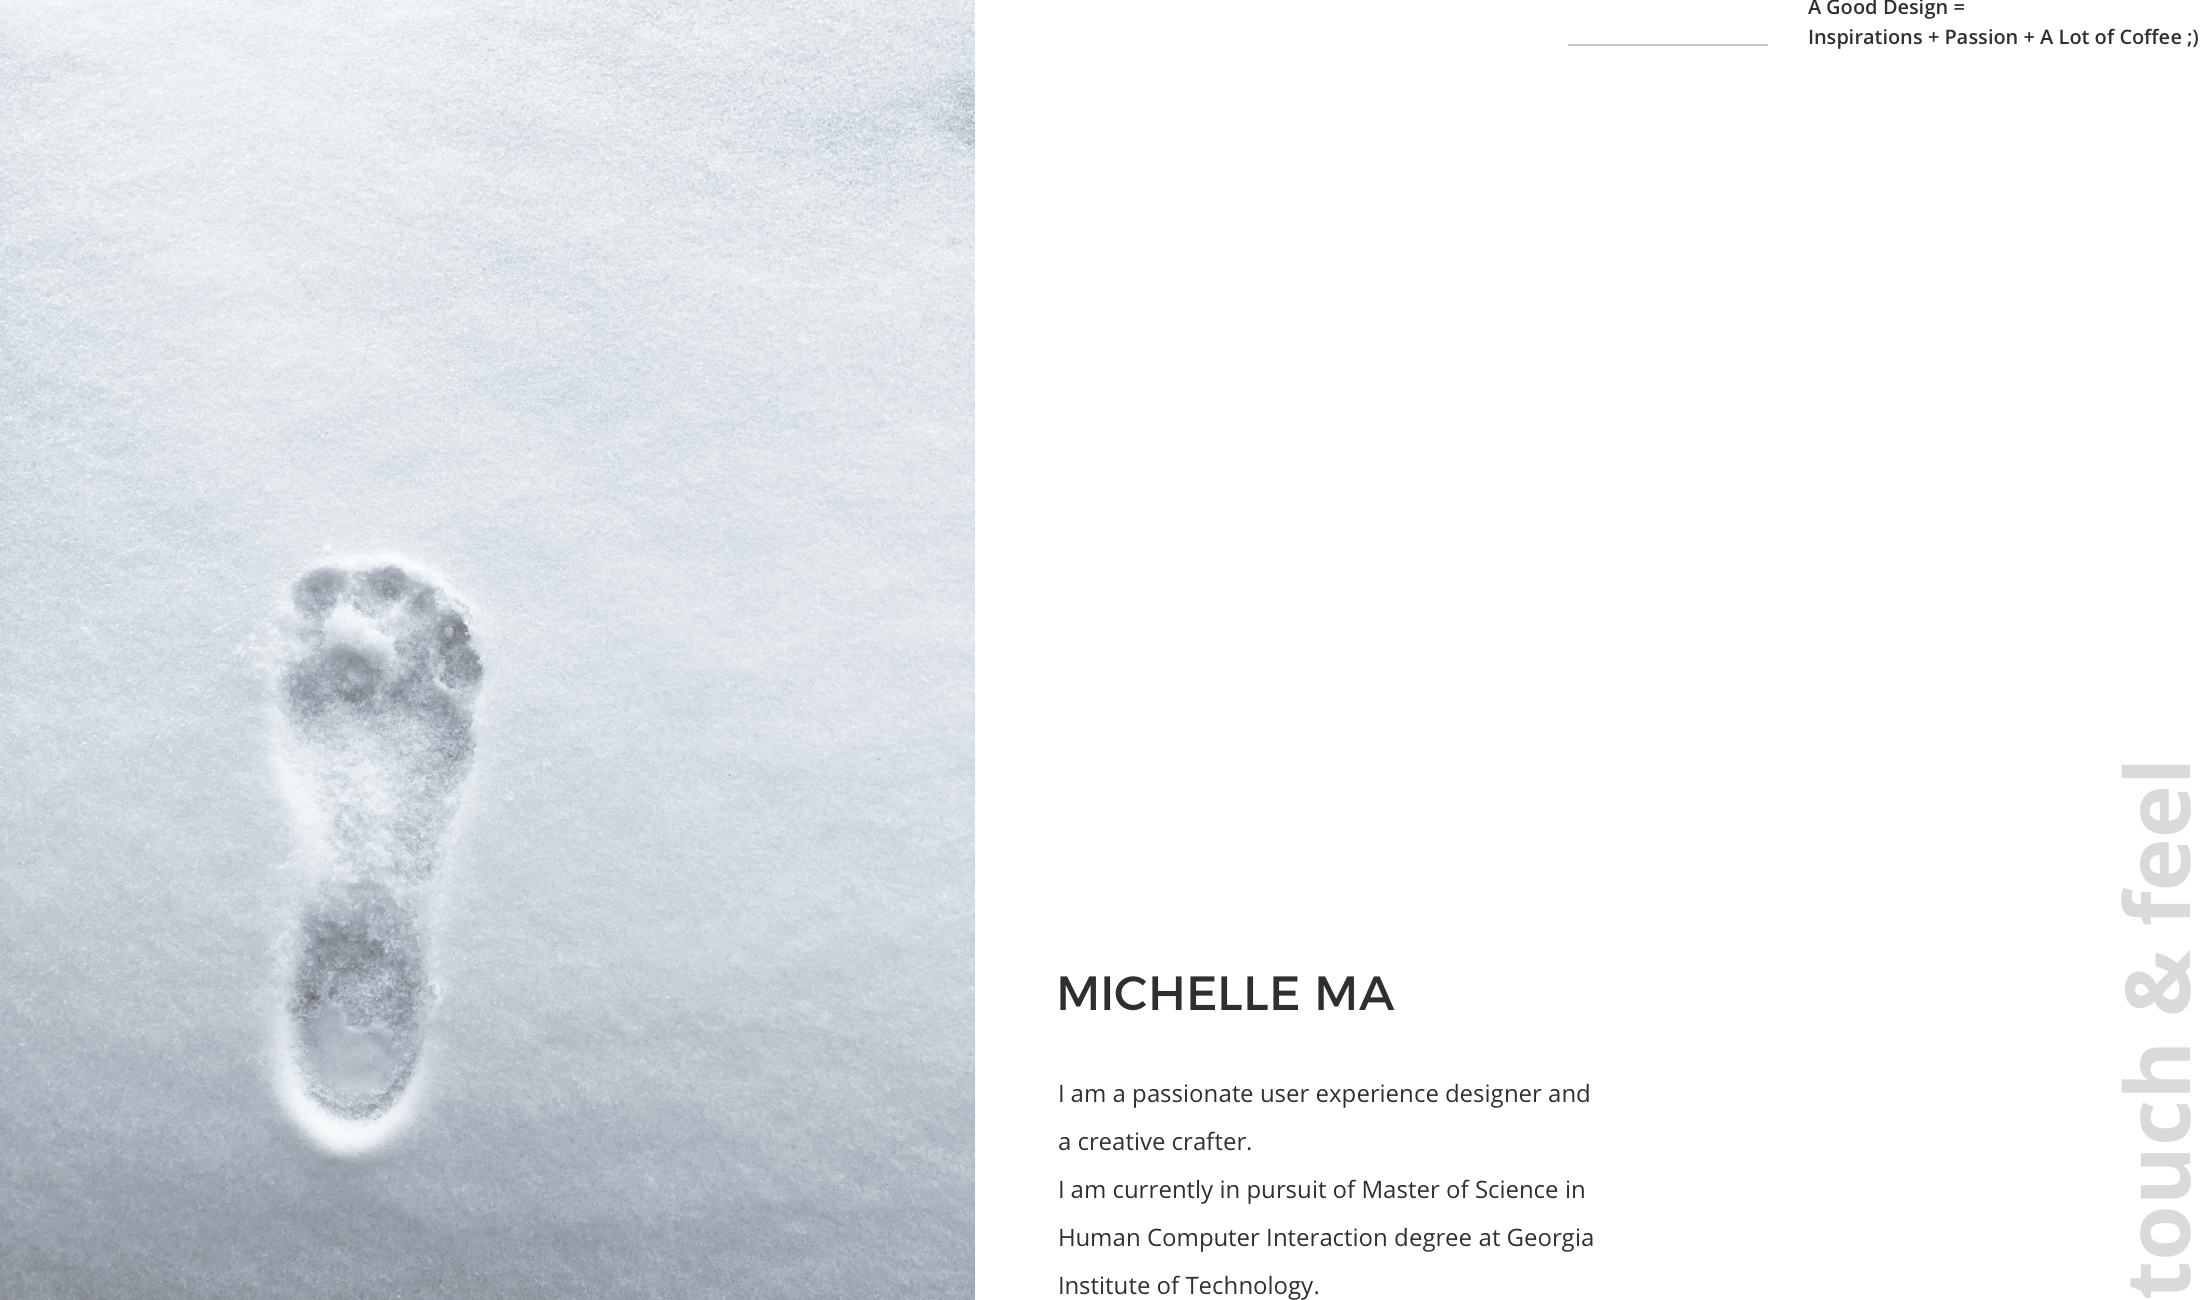
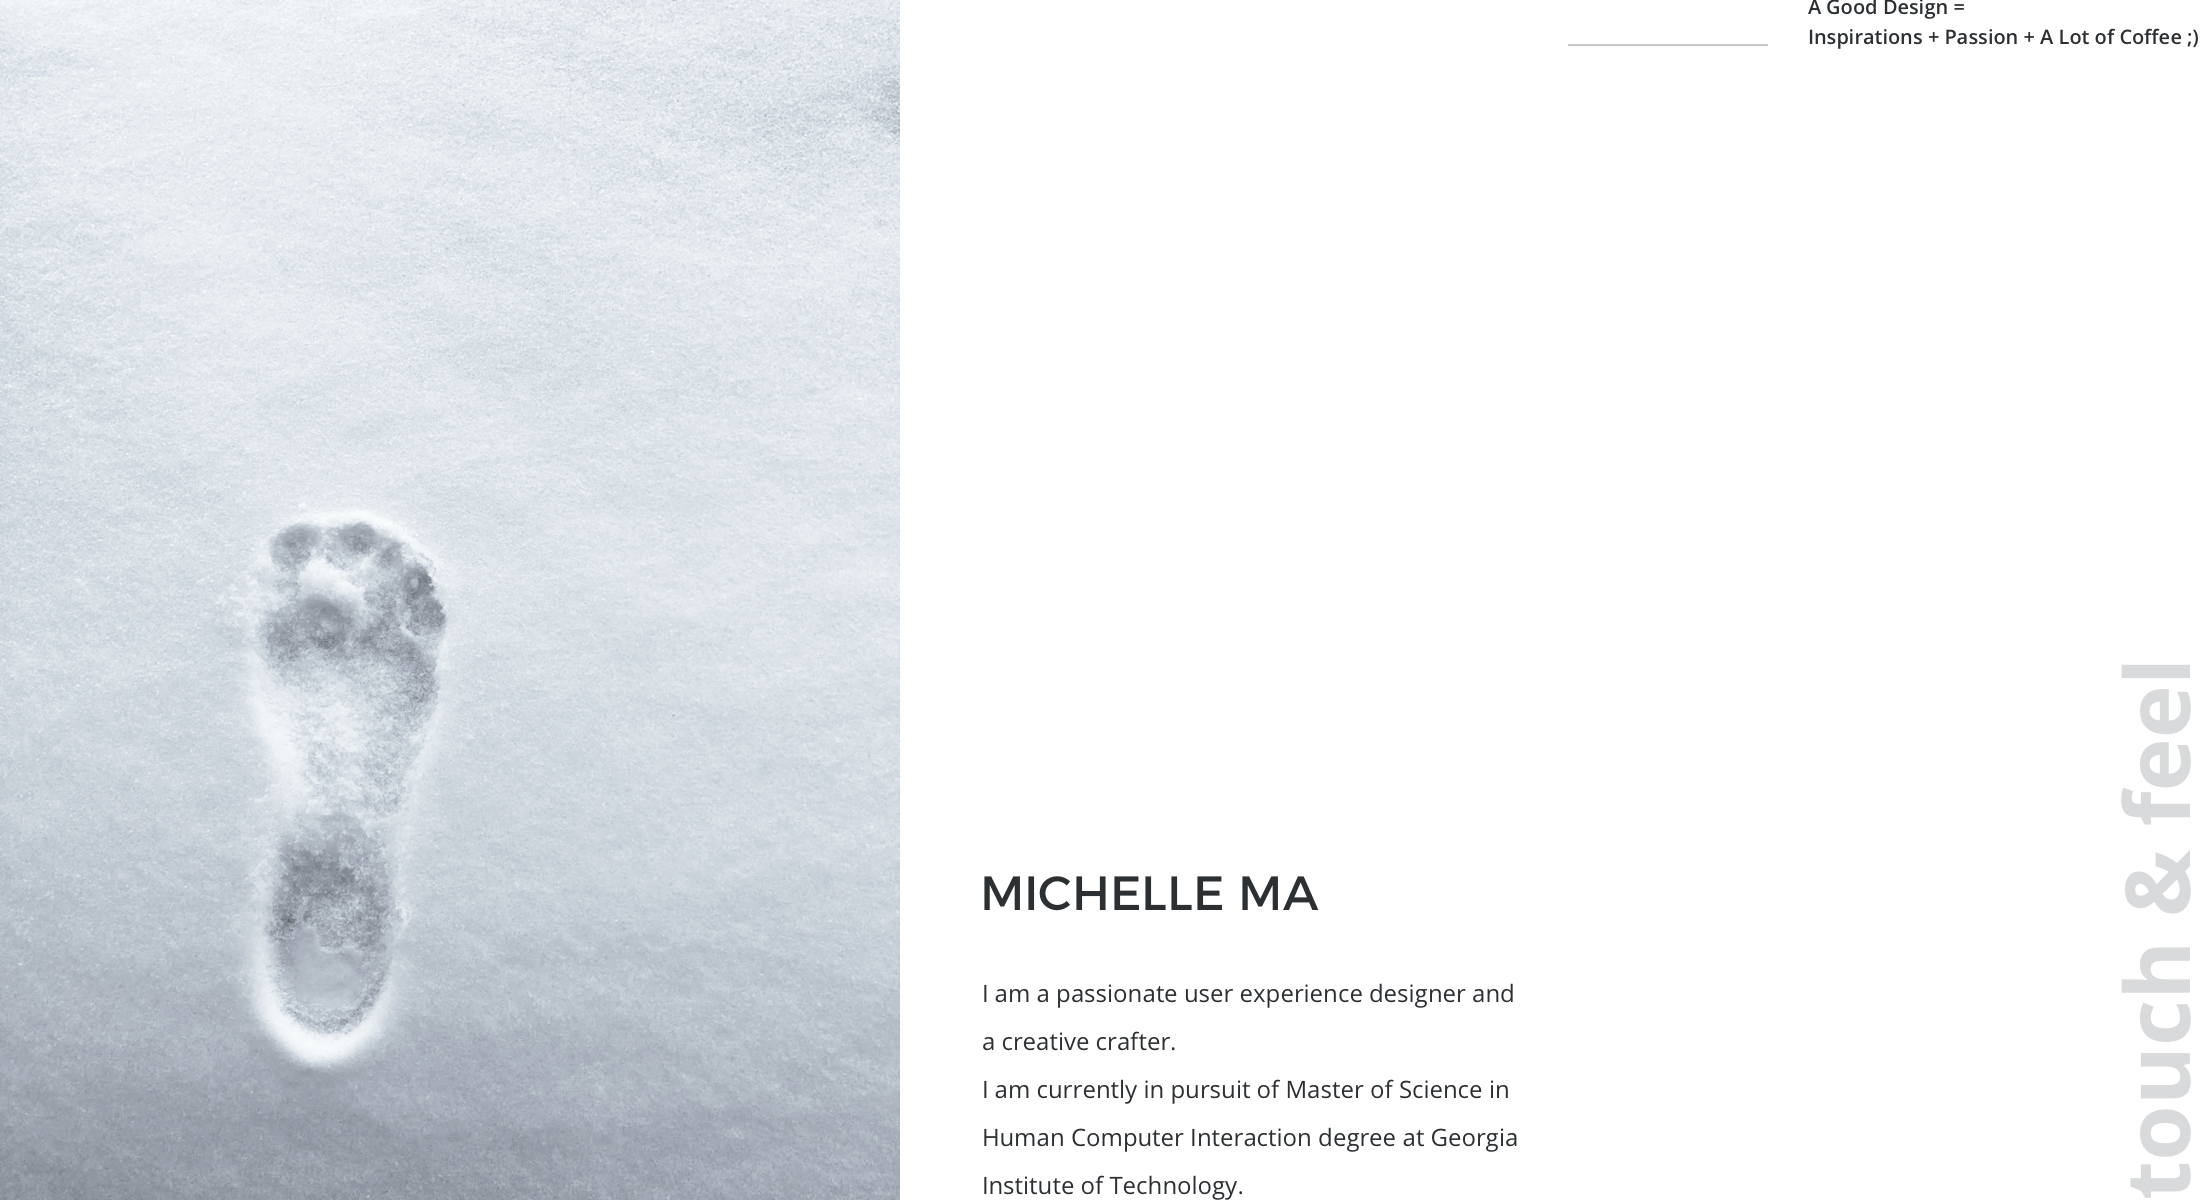
update img

diff --git a/index.html b/index.html
@@ -171,22 +171,25 @@ $(document).ready(function(){
 <section class="indexcover">
 	<div class="container">
 		<div style="position: absolute; left: 50%; top: 50%; ">
-			<img src="assets/img/index/index_cover@2x.png" style="position: relative; left: -550px; top: -300px; max-width: 1100px; width: auto;">
+			<img src="assets/img/index/index_cover@2x.png" style="position: relative; left: -550px; top: -280px; max-width: 1100px; width: auto;">
 		</div>
+		<!--
 		<div style="position: absolute; left: 50%; top: 70%">
-			<!--
+			
 			<div class="section-title" style="margin-top: 10%; left: -50%; position: relative;">
 				<p class="font-opensans-reg" style="font-weight: bolder;text-transform: uppercase;line-height: 26px;">HI, I'M MICHELLE Ma | UX designer & creative crafter</p>
 				<p class="font-opensans-reg" style="line-height: 25px;margin-top: 15px;">A Good Design =<br>Inspirations + Passion + A Lot of Coffee ;)
 				</p>
 			</div>
-		-->
+		
 		</div>
-		<div style="position: absolute; bottom: 3%; left: 50%">
+		-->
+		<div style="position: absolute; bottom: 2%; left: 50%">
 			<a href="#main-content">
 				<span class="fa fa-angle-down" style="font-size: 2em; position: relative; left: -50%; color: #313843; "></span>
 			</a> 
 		</div>
+
 	</div>
 </section>
 
